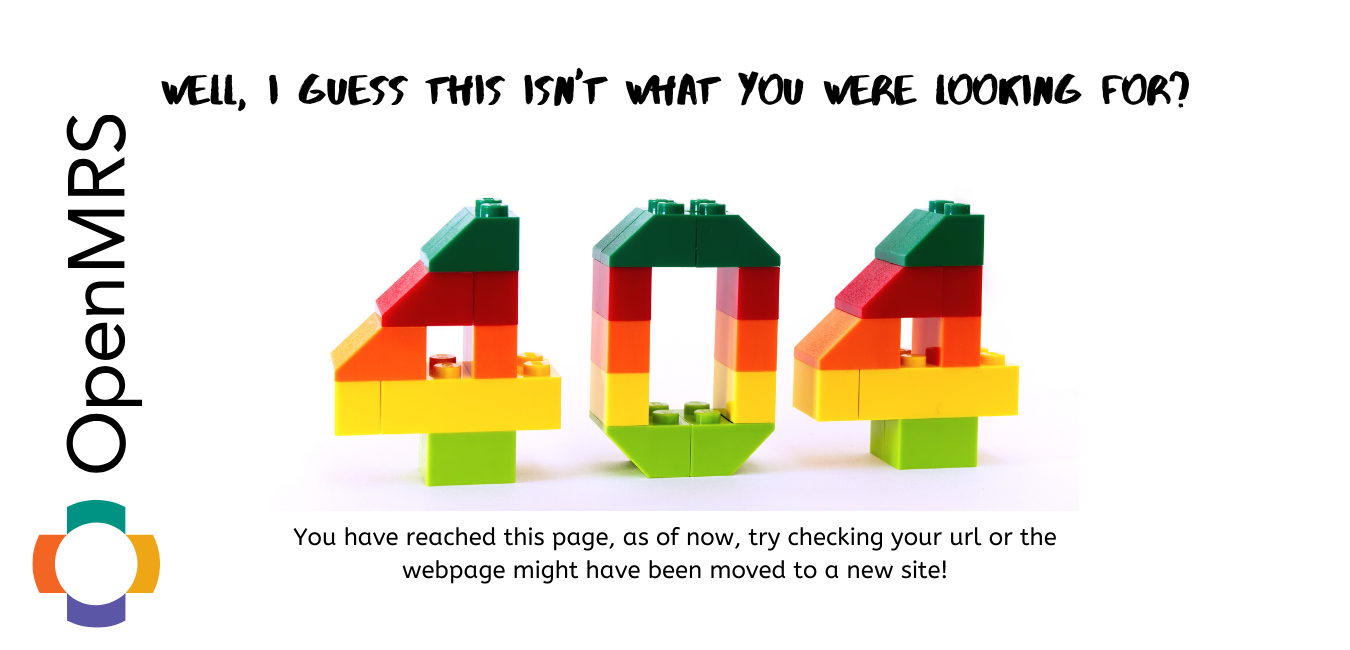
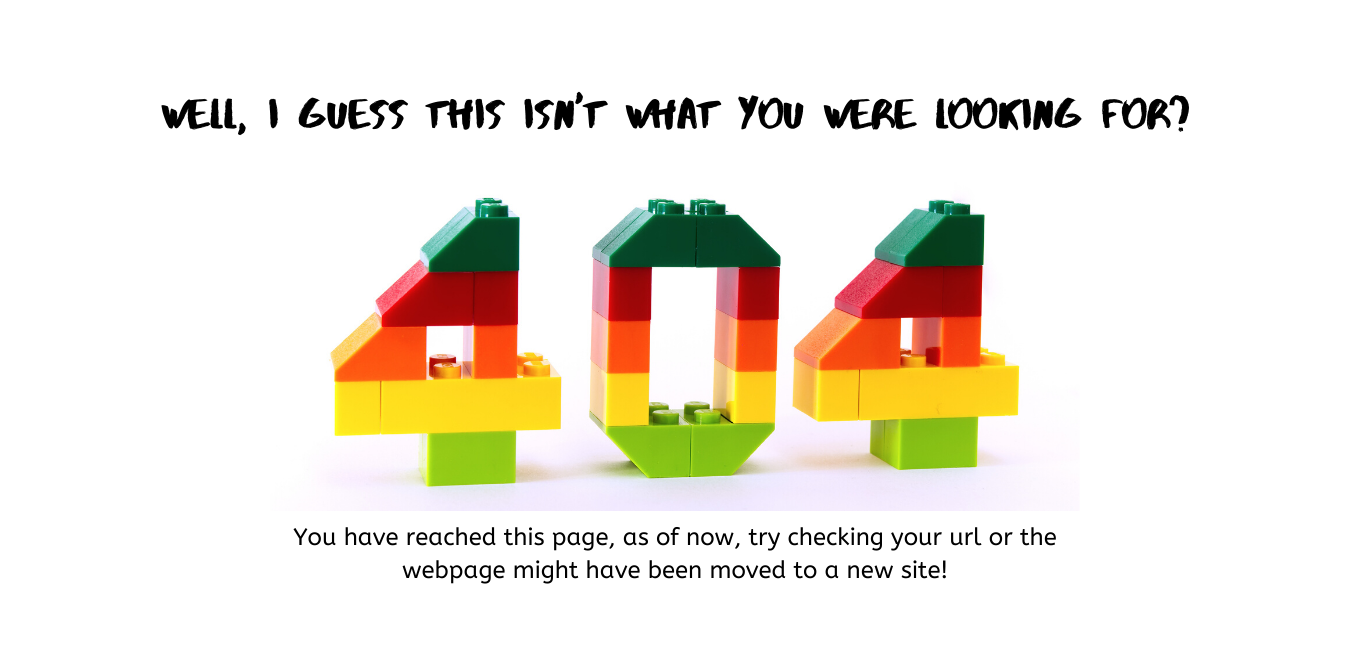
Add files via upload
by gamer-1748

Changed region(s): [[0.0933, 0.0923, 0.9022, 0.2154], [0.0311, 0.1538, 0.1244, 0.7385], [0.0, 0.7692, 0.1244, 0.9846]]

diff --git a/index.html b/index.html
@@ -4,21 +4,54 @@
 	<style type="text/css">
 	@import url('https://fonts.googleapis.com/css?family=Quicksand:400,500,700');
 	body{
-        background-color: #fff;
+        background-color: #f1f4f4;
+		font-family: 'Quicksand', sans-serif;
+		font-size: 18px;
 		color: #565859;
 		max-width: 800px;
 		margin: 0 auto;
+		padding: 2%;
 	}
 	*{
 		margin: 0;
 		border: 0;
 		padding: 0;
 	}
-	
+	header{
+		width: 98%;
+	}
+	img {
+		max-width: 100%
+	}
+	a{
+		color: #565859;
+		text-decoration: none;
+	}
+	p{
+		padding: 2%;
+		text-align: justify;
+	}
+		
+	#logo{
+		float: left;
+		max-width: 220px;
+		margin: 2% 0 0 5%;
+	}
+	#wrapper{
+			background-color: #fff;
+			margin: 0;
+		}
 	#callout {
 		float: right;
 		margin-bottom: 3%;
 		margin-top: 2%;
+	}
+	.line{
+		clear: both;
+		margin: 4% auto;
+		width: 90%;
+		height: 2px;
+		background-color: #e3e9e9;
 	}
 	.social {
 		list-style-type: none;
@@ -29,7 +62,7 @@
 	}
 	.button-holder{
 		
-		margin: 1% 2% 4% 0;
+		margin: 1% 2% 4% 5%;
 	}
 	.btn {
 		background-color: #18a0d3;
@@ -41,6 +74,10 @@
 	.btn:hover{
 		background-color: #4ec0eb;
 	}
+	.contact {
+			text-align: center;
+			padding: 4%;
+		}
 	</style>
 	
 	<title>404 Page not found</title>
@@ -48,9 +85,10 @@
 <body>
 
 	<div id="wrapper">
-	
 		<header>
-			
+			<div id="logo">
+				<img src="OpenMRS-logo.svg" title="open mrs" alt="OpenMRS">
+			</div>
 			<div id="callout">
 				<ul class="social">
 					<li><a href="https://twitter.com/OpenMRS"><img src="https://help.twitter.com/content/dam/help-twitter/brand/logo.png" height="42" width="42"></a></li>
@@ -60,15 +98,25 @@
 			</div>
 			<div id="error">
 				<img src="404 Error page.png" width="900">
-				
 			</div>
 			<div class="button-holder">
-        	<center><a class="btn" href="https://openmrs.org/" style="">GO  BACK</a></center>
             </div>
 		</header>
 		<!----header ending----->
-
-
+        <center><a class="btn" href="https://openmrs.org/" style="margin-bottom: 5%;">GO  BACK</a></center>
+        <div class="line"></div>
+        <p class="contact">
+    	OpenMRS<br>
+    	+1-405-362-OMRS (+1-405-362-6677)<br>
+    	OpenMRS, Inc.c/o Theresa Props, CPA 10425 Commerce Dr. Ste. 110 Carmel, IN 46032-7643 USA<br>
+    	Your Email if you like<br>
+    	<div class="web-holder">
+		<a style="float: left; margin-left:70px;" class=" btn" href="https://openmrs.org/">Website</a>
+		<a style="float: right; margin-right: 70px; display: inline;" class="btn" href="https://talk.openmrs.org/">Talk Forum</a>
+		<center><a class="btn" href="https://wiki.openmrs.org/" >OpenMRS wiki</a></center>
+	    </div>
+    </p>
+    <div class="line"></div>
 	</div>
 </body>
 </html>
